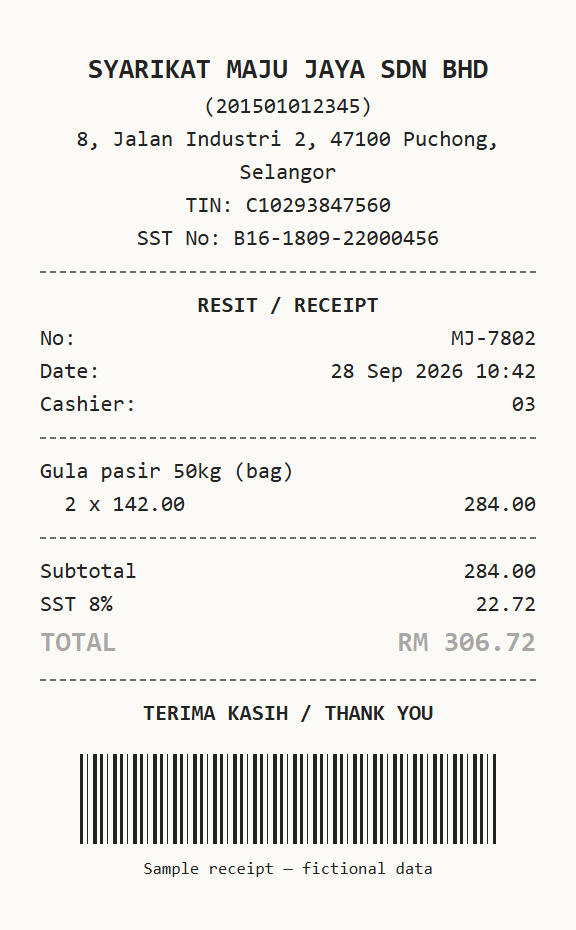
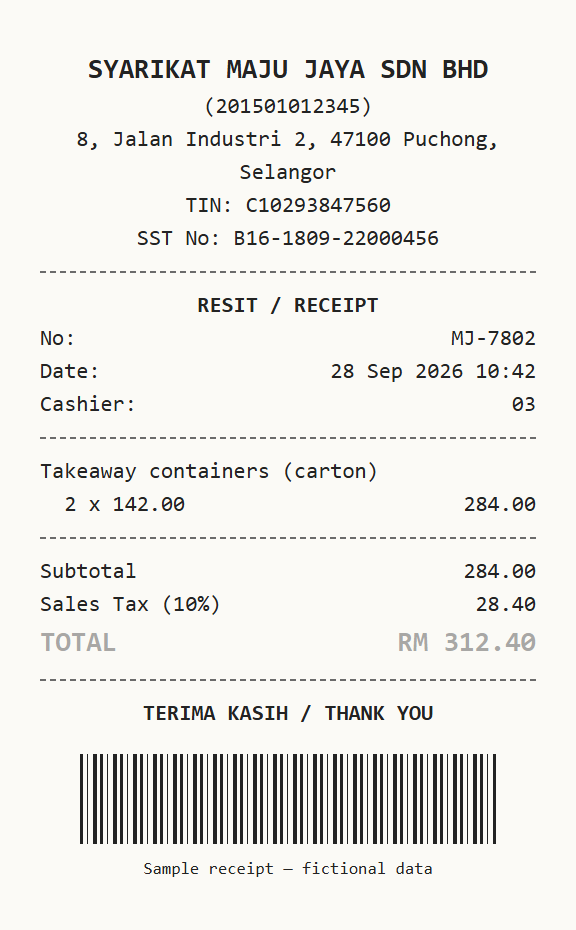
Mock data: realistic tax treatment

diff --git a/src/data/mock-data.js b/src/data/mock-data.js
@@ -25,6 +25,13 @@ export const EXPENSE_CATEGORIES = [
   'Pantry supplies',
 ];
 
+/** Tax treatments used by the mock documents (labels match what is printed on the document). */
+export const TAX = {
+  sales10: { sstRate: 0.1, taxLabel: 'Sales Tax (10%)' },
+  service8: { sstRate: 0.08, taxLabel: 'Service Tax (8%)' },
+  service6: { sstRate: 0.06, taxLabel: 'Service Tax (6%)' }, // food & beverage services
+};
+
 export const DOCUMENT_TYPES = {
   sales: 'Sales e-Invoice',
   purchase: 'Purchase invoice / receipt',
@@ -362,10 +369,10 @@ const documentSpecs = [
     date: '2026-09-28',
     party: clientParty('c3'),
     lines: [
-      ['Teh tarik premix (carton)', 20, 48.0],
-      ['Delivery charge', 1, 188.15],
+      ['Coffee machine servicing', 1, 960.0],
+      ['On-site call-out fee', 1, 188.15],
     ],
-    sstRate: 0.08,
+    ...TAX.service8,
     fileName: 'INV-2026-0412.pdf',
     fileSize: 253952,
     uploadedAt: '2026-09-28T09:12:00',
@@ -407,15 +414,15 @@ const documentSpecs = [
     date: '2026-09-25',
     party: parties.seriMurni,
     lines: [
-      ['Beras wangi 10kg (bag)', 60, 42.0],
-      ['Minyak masak 5kg', 20, 31.5],
+      ['Stainless steel stockpot 40L', 6, 420.0],
+      ['Commercial rice cooker 10L', 2, 315.0],
     ],
-    sstRate: 0.08,
+    ...TAX.sales10,
     fileName: 'INV-2026-0409.pdf',
     fileSize: 231424,
     uploadedAt: '2026-09-25T14:30:00',
     overrides: {
-      total: { value: 3042, confidence: 58, reason: 'Digits unclear', edited: true },
+      total: { value: 3456, confidence: 58, reason: 'Digits unclear', edited: true },
     },
   },
   {
@@ -427,10 +434,10 @@ const documentSpecs = [
     date: '2026-09-18',
     party: clientParty('c2'),
     lines: [
-      ['Beras basmathi 5kg', 30, 38.0],
-      ['Rempah kari 1kg', 25, 22.0],
+      ['Food packaging boxes (carton)', 30, 38.0],
+      ['Paper bags (bundle)', 25, 22.0],
     ],
-    sstRate: 0.08,
+    ...TAX.sales10,
     fileName: 'INV-2026-0401.pdf',
     fileSize: 219136,
     uploadedAt: '2026-09-18T09:05:00',
@@ -446,10 +453,10 @@ const documentSpecs = [
     date: '2026-09-15',
     party: parties.percetakan,
     lines: [
-      ['Delivery order books, 3-ply', 10, 18.5],
-      ['Company letterhead A4 (ream)', 4, 32.0],
+      ['Toner cartridge', 2, 92.5],
+      ['Copier paper A4 (box)', 4, 32.0],
     ],
-    sstRate: 0.08,
+    ...TAX.sales10,
     category: 'Printing & stationery',
     fileName: 'percetakan-PP-2026-1187.pdf',
     fileSize: 180224,
@@ -464,8 +471,8 @@ const documentSpecs = [
     number: 'INV-2026-0406',
     date: '2026-09-22',
     party: parties.majuJaya,
-    lines: [['Tepung gandum 25kg (bag)', 40, 58.0]],
-    sstRate: 0.08,
+    lines: [['Commercial dough mixer 10L', 2, 1160.0]],
+    ...TAX.sales10,
     fileName: 'INV-2026-0406.pdf',
     fileSize: 204800,
     uploadedAt: '2026-09-22T11:15:00',
@@ -487,7 +494,7 @@ const documentSpecs = [
       ['Catering — nasi kandar set (pax)', 120, 14.5],
       ['Teh tarik (jug)', 30, 18.0],
     ],
-    sstRate: 0.06,
+    ...TAX.service6,
     fileName: 'NKC-0098.pdf',
     fileSize: 196608,
     uploadedAt: '2026-09-26T17:45:00',
@@ -530,7 +537,7 @@ const documentSpecs = [
       ['Catering — staff lunch (pax)', 45, 13.0],
       ['Air sirap bandung (jug)', 10, 16.0],
     ],
-    sstRate: 0.06,
+    ...TAX.service6,
     fileName: 'NKC-0095.pdf',
     fileSize: 188416,
     uploadedAt: '2026-09-16T15:00:00',
@@ -547,11 +554,11 @@ const documentSpecs = [
     date: '2026-09-24',
     party: parties.kopiTanahTinggi,
     lines: [
-      ['Serbuk kopi 1kg', 12, 26.0],
-      ['Teh serbuk 1kg', 10, 19.5],
+      ['Paper cups 12oz (carton)', 12, 26.0],
+      ['Cup lids (carton)', 10, 19.5],
     ],
-    sstRate: 0.1,
-    category: 'Cost of sales — ingredients',
+    ...TAX.sales10,
+    category: 'Cost of sales — stock',
     fileName: 'KTT-3310.pdf',
     fileSize: 172032,
     uploadedAt: '2026-09-24T10:40:00',
@@ -627,8 +634,8 @@ const documentSpecs = [
     number: 'MJ-7747',
     date: '2026-09-26',
     party: parties.majuJaya,
-    lines: [['Gula pasir 50kg (bag)', 4, 142.0]],
-    sstRate: 0.05,
+    lines: [['Plastic cups 16oz (carton)', 4, 142.0]],
+    ...TAX.sales10,
     category: 'Cost of sales — stock',
     fileName: 'maju-jaya-MJ-7747.pdf',
     fileSize: 165888,
@@ -664,8 +671,8 @@ const documentSpecs = [
     number: 'MJ-7741',
     date: '2026-09-19',
     party: parties.majuJaya,
-    lines: [['Susu pekat manis (carton)', 5, 92.0]],
-    sstRate: 0.05,
+    lines: [['Cup sealing film (roll)', 5, 92.0]],
+    ...TAX.sales10,
     category: 'Cost of sales — stock',
     fileName: 'maju-jaya-MJ-7741.pdf',
     fileSize: 161792,
@@ -954,27 +961,31 @@ const UPLOAD_TEMPLATES = {
     {
       party: parties.seriMurni,
       lines: [
-        ['Beras wangi 10kg (bag)', 25, 42.0],
-        ['Gula pasir 1kg', 40, 2.85],
+        ['Cold room maintenance', 1, 850.0],
+        ['Filter replacement service', 2, 60.0],
       ],
+      tax: TAX.service8,
     },
     {
       party: parties.majuJaya,
       lines: [
-        ['Minyak masak 5kg', 18, 31.5],
-        ['Delivery charge', 1, 45.0],
+        ['Stainless steel shelving unit', 3, 410.0],
+        ['Wall-mounted pot rack', 2, 95.0],
       ],
+      tax: TAX.sales10,
     },
   ],
   purchase: [
     {
       party: parties.majuJaya,
-      lines: [['Gula pasir 50kg (bag)', 2, 142.0]],
+      lines: [['Takeaway containers (carton)', 2, 142.0]],
+      tax: TAX.sales10,
       category: 'Cost of sales — stock',
     },
     {
       party: parties.percetakan,
-      lines: [['Invoice books, 2-ply', 6, 16.0]],
+      lines: [['Receipt printer paper rolls (box)', 6, 16.0]],
+      tax: TAX.sales10,
       category: 'Printing & stationery',
     },
   ],
@@ -1020,7 +1031,7 @@ export const SAMPLE_DOCUMENTS = {
     label: 'Sample thermal receipt',
     fileName: 'sample-receipt-MJ-7802.png',
     src: '/samples/sample-receipt.png',
-    fileSize: 49725, // bytes — update after re-running scripts/render-samples.mjs
+    fileSize: 51562, // bytes — update after re-running scripts/render-samples.mjs
     // Receipts don't name the buyer, so any client can record this purchase.
     clientId: null,
     number: 'MJ-7802',
@@ -1036,6 +1047,11 @@ export const SAMPLE_DOCUMENTS = {
   },
 };
 
+/** A template's tax applies only when the seller is SST-registered; otherwise no tax is charged. */
+function templateTax(template, seller) {
+  return seller?.sst && template.tax ? template.tax : { sstRate: 0, taxLabel: null };
+}
+
 /** Builds the exact document a sample file represents (also used to render the PNG). */
 export function buildSampleDocument(type, { id, client, uploadedAt, uploadedBy, status = 'processing' }) {
   const s = SAMPLE_DOCUMENTS[type];
@@ -1050,8 +1066,9 @@ export function buildSampleDocument(type, { id, client, uploadedAt, uploadedBy, 
     date: s.date,
     party: s.party || t.party,
     lines: s.lines || t.lines,
-    sstRate: s.taxRate ?? ((type === 'sales' ? client.sst : t.party.sst) ? 0.08 : 0),
-    taxLabel: s.taxLabel,
+    ...(s.taxRate !== undefined
+      ? { sstRate: s.taxRate, taxLabel: s.taxLabel }
+      : templateTax(t, type === 'sales' ? client : t.party)),
     category: t.category,
     classification: s.classification,
     preview: s.preview,
@@ -1093,7 +1110,7 @@ export function buildUploadedDocument(meta) {
     date: meta.uploadedAt.slice(0, 10),
     party: t.party,
     lines: t.lines,
-    sstRate: (meta.type === 'sales' ? client.sst : t.party.sst) ? 0.08 : 0,
+    ...templateTax(t, meta.type === 'sales' ? client : t.party),
     category: t.category,
     preview: meta.type === 'purchase' && isImage ? 'receipt' : 'invoice',
     fileName: meta.fileName,

diff --git a/src/pages/StyleGuide.jsx b/src/pages/StyleGuide.jsx
@@ -168,12 +168,12 @@ function MiniReview() {
             </thead>
             <tbody>
               <tr>
-                <td>Teh tarik premix (carton)</td>
-                <td>20</td>
+                <td>Coffee machine servicing</td>
+                <td>1</td>
                 <td>960.00</td>
               </tr>
               <tr>
-                <td>Delivery charge</td>
+                <td>On-site call-out fee</td>
                 <td>1</td>
                 <td>188.15</td>
               </tr>
@@ -184,11 +184,11 @@ function MiniReview() {
             <span>1,148.15</span>
           </div>
           <div className="sg-doc-sum">
-            <span>SST 8%</span>
+            <span>Service Tax (8%)</span>
             <span>91.85</span>
           </div>
           <div className="sg-doc-total">
-            <span>Total (incl. SST)</span>
+            <span>Total (incl. tax)</span>
             <strong>{region('total', 'RM 1,240.00', 'doc-region--faded')}</strong>
           </div>
         </div>
